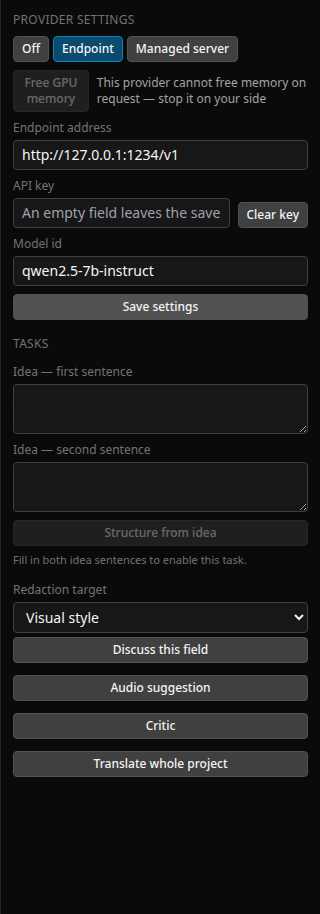
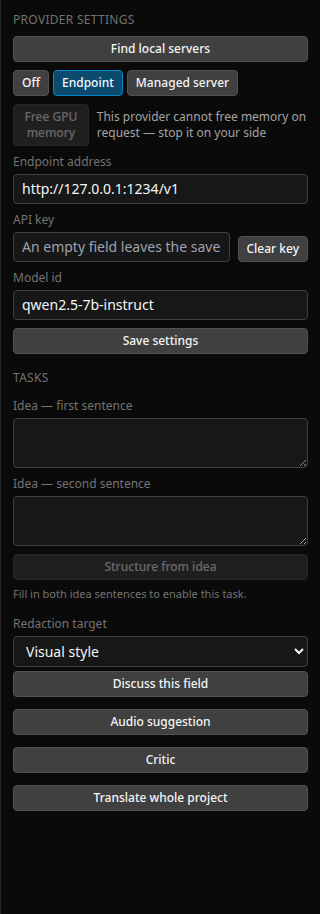
test: przebieg skanowania w przegladarce i dokumentacja trzech funkcji
E2E odslonil realna zaleznosc od KOLEJNOSCI, ktorej zaden test jednostkowy nie
mogl pokazac: ustawienia dostawcy to plik NA MASZYNE (leza poza katalogami
projektow, zeby klucz API nie wedrowal z projektem wyslanym komus innemu), wiec
test wymagajacy stanu 'nieskonfigurowany' przegrywal z testem, ktory dostawce
konfiguruje. Dwa testy padaly razem, kazdy z osobna przechodzil.

Naprawione dwoma ruchami: workers=1 w konfiguracji Playwrighta (z powodem
zapisanym w komentarzu) oraz jawne wyzerowanie ustawien na starcie llm.spec i
generatora zrzutow - zamiast liczenia na kolejnosc plikow.

Zrzut 08-install pokazuje panel kogos, kto nie ma nic: skanowanie serwerow i
trzy modele z prawdziwymi rozmiarami przed klknieciem.

Claude-Session: https://claude.ai/code/session_01L3Y2cCwhtWZk7rhudRN9ki

Changed region(s): [[0.0312, 0.0306, 0.9688, 0.8884], [0.9375, 0.4289, 0.9688, 0.6127]]

diff --git a/web/e2e/discovery.spec.ts b/web/e2e/discovery.spec.ts
@@ -1,0 +1,39 @@
+import { expect, test } from '@playwright/test'
+
+/**
+ * Skan lokalnych serwerów w PRAWDZIWEJ przeglądarce. W środowisku e2e nie stoi
+ * żaden dostawca, więc wynikiem jest „nic nie znaleziono" — i to jest dobry
+ * test, bo dokładnie tę ścieżkę zobaczy użytkownik bez Ollamy, a jest ona
+ * jedyną, w której łatwo zostawić zawieszone „Szukam…" albo pusty ekran.
+ */
+test('skanowanie lokalnych serwerów kończy się czytelnym wynikiem', async ({ page }) => {
+  await page.goto('/')
+  await page.getByRole('button', { name: 'PL', exact: true }).click()
+  await page.getByRole('button', { name: /nowy projekt/i }).click()
+  await page.getByLabel(/nazwa projektu/i).fill(`E2E skan ${Date.now()}`)
+  await page.getByRole('button', { name: /^T2VA/ }).click()
+  await page.getByRole('button', { name: /^utwórz$/i }).click()
+
+  await page.getByRole('button', { name: /szukaj lokalnych serwerów/i }).click()
+
+  // Cokolwiek stoi na maszynie, wynik ma być zdaniem albo listą — nigdy pustym
+  // ekranem ani przyciskiem, który został na „Szukam…".
+  await expect(
+    page.getByText(/nie znaleziono żadnego serwera|ollama|lmstudio|openai/i).first(),
+  ).toBeVisible({ timeout: 20_000 })
+  await expect(page.getByRole('button', { name: /szukaj lokalnych serwerów/i })).toBeVisible()
+})
+
+test('bez skonfigurowanego dostawcy panel proponuje pobranie modelu z rozmiarami', async ({ page }) => {
+  await page.goto('/')
+  await page.getByRole('button', { name: 'PL', exact: true }).click()
+  await page.getByRole('button', { name: /nowy projekt/i }).click()
+  await page.getByLabel(/nazwa projektu/i).fill(`E2E pobranie ${Date.now()}`)
+  await page.getByRole('button', { name: /^T2VA/ }).click()
+  await page.getByRole('button', { name: /^utwórz$/i }).click()
+
+  // Rozmiar musi być widoczny ZANIM cokolwiek ruszy — to on jest podstawą
+  // decyzji o pobraniu kilku gigabajtów.
+  await expect(page.getByText(/8[.,]9 GB|9[.,]0 GB/).first()).toBeVisible({ timeout: 15_000 })
+  await expect(page.getByRole('button', { name: /pobierz i skonfiguruj/i }).first()).toBeVisible()
+})

diff --git a/web/e2e/screenshots.spec.ts b/web/e2e/screenshots.spec.ts
@@ -75,6 +75,18 @@ test('zrzuty panelu LLM', async ({ page }) => {
   await mkdir(SHOTS, { recursive: true })
   await page.setViewportSize({ width: 1680, height: 1180 })
   await page.goto('/')
+  // Czysty stan PRZED wejściem do edytora: ustawienia dostawcy to plik na
+  // maszynę, a zrzuty mają pokazywać panel człowieka, który jeszcze nic nie
+  // skonfigurował. Panel czyta ustawienia przy montowaniu, więc wystarczy
+  // zrobić to zanim projekt się otworzy — przeładowanie strony wyrzuciłoby
+  // z edytora z powrotem na listę projektów.
+  await page.request.put('/api/llm/settings', {
+    data: {
+      mode: 'off',
+      endpoint: { baseUrl: '', apiKey: null, model: '' },
+      managed: { serverBinary: '', modelPath: '', gpuLayers: 0, contextSize: 8192 },
+    },
+  })
   await page.getByRole('button', { name: 'EN', exact: true }).click()
 
   await page.getByRole('button', { name: /new project/i }).click()
@@ -86,6 +98,10 @@ test('zrzuty panelu LLM', async ({ page }) => {
 
   await expect(page.getByText(/model is not configured/i).first()).toBeVisible()
   await panel.screenshot({ path: join(SHOTS, '05-llm-off.png'), animations: 'disabled' })
+
+  // Ekran pobierania — to, co widzi ktoś, kto nie ma jeszcze nic: rozmiary
+  // przed kliknięciem i wykrywanie serwerów, gdyby już coś stało na maszynie.
+  await panel.screenshot({ path: join(SHOTS, '08-install.png'), animations: 'disabled' })
 
   // Ten sam panel po wskazaniu dostawcy: zadania stają się aktywne, a przycisk
   // zwolnienia pamięci karty mówi, co potrafi u TEGO dostawcy.

diff --git a/web/playwright.config.ts b/web/playwright.config.ts
@@ -1,6 +1,17 @@
 import { defineConfig } from '@playwright/test'
 
 export default defineConfig({
+  /*
+    JEDEN worker, świadomie. Ustawienia dostawcy modelu (`llm-settings.json`)
+    są plikiem NA MASZYNĘ, nie na projekt — leżą poza katalogami projektów
+    właśnie po to, żeby klucz API nie wędrował z projektem wysłanym komuś
+    innemu. Skutek uboczny: dwa testy pracujące równolegle na tym samym
+    serwerze walczą o ten sam plik i wywracają się nawzajem. Zmierzone wprost:
+    `discovery.spec.ts` (który wymaga stanu „dostawca nieskonfigurowany") i
+    `llm.spec.ts` (który konfiguruje dostawcę) padały razem, a każdy z osobna
+    przechodził.
+  */
+  workers: 1,
   testDir: './e2e',
   // Generator zrzutów do README nie jest testem — zapisuje pliki i wymaga
   // ręcznego uruchomienia (Error: http://127.0.0.1:8899/api/health is already used, make sure that nothing is running on the port/url or set reuseExistingServer:true in config.webServer.).

diff --git a/web/e2e/llm.spec.ts b/web/e2e/llm.spec.ts
@@ -78,6 +78,18 @@ test('zadanie LLM: od kliknięcia przez strumień HTTP do zmienionego projektu, 
       chunkCount: 10,
     })
 
+    // Ustawienia dostawcy to plik NA MASZYNĘ, nie na projekt — inny test w tym
+    // pakiecie mógł zostawić skonfigurowanego dostawcę, a ten scenariusz
+    // zaczyna się od sprawdzenia stanu „model nie jest skonfigurowany".
+    // Zerujemy je jawnie, zamiast liczyć na kolejność uruchamiania plików.
+    await page.request.put('/api/llm/settings', {
+      data: {
+        mode: 'off',
+        endpoint: { baseUrl: '', apiKey: null, model: '' },
+        managed: { serverBinary: '', modelPath: '', gpuLayers: 0, contextSize: 8192 },
+      },
+    })
+
     const name = await createProject(page, 'T2VA')
 
     const llmPanel = page.getByRole('region', { name: /^model językowy$/i })

diff --git a/README.md b/README.md
@@ -46,7 +46,7 @@ Writing that by hand in a text box means keeping a dozen rules in your head and 
 - **43 validator rules** drawn from the two official prompt-writing guides, each citing its source section.
 - **Five prompt modes** with the format differences handled for you.
 - **Frame-accurate editing** at 24 fps, with cut times snapped to the frame grid.
-- **Local model assistance** — optional, and the app is fully usable without it.
+- **Local model assistance** — optional, and the app is fully usable without it. It finds a running Ollama or LM Studio for you, or downloads an engine and a model if you have neither.
 - **A conversation per field** — ask for a rewrite, then refine it with one word; each field remembers its own thread across restarts.
 - **ComfyUI export** — pick a node and a field once, and the app writes your prompt into a copy of your workflow.
 - **Bilingual interface**, Polish and English — including everything the model writes back to you. The prompt itself is always English.
@@ -148,7 +148,17 @@ Entirely optional. Without a model configured the panel is greyed out with an ex
 
 ![The language-model panel with no provider configured](docs/screenshots/05-llm-off.png)
 
-Two ways to connect one:
+**Find local servers** scans `127.0.0.1` for Ollama, LM Studio and a bare `llama-server`. If one is running, a single click fills in the settings — no address to remember. Only the loopback interface is scanned: probing other machines from the app's server would be a port scanner, not a convenience, and this app is sometimes exposed on `0.0.0.0`.
+
+**Download a model** appears when you have nothing configured. It fetches the llama.cpp engine (~200 MB) and the model you pick, then configures both for you.
+
+![The provider panel with nothing configured: server discovery and the three models offered for download](docs/screenshots/08-install.png)
+
+Three models are offered, with the real download size next to each — 4.7, 9.0 and 19.9 GB. Nothing starts until you click; a few gigabytes should never move without you knowing. If the download is interrupted, the next click resumes from where it stopped rather than starting over. On Windows the engine is the CPU build: the CUDA variants need a second download, and without a Windows machine to test on, promising acceleration nobody verified would be a guess.
+
+If your GPU can be read, the panel shows a line like `NVIDIA RTX PRO 6000 · VRAM 10.4 / 95.6 GB`, refreshed every few seconds — so you can see memory fill when a model loads and drop when you free it. When the reading is unavailable the line is simply absent; a zero pretending to be a measurement is worse than no measurement.
+
+Two ways to connect one manually:
 
 **Endpoint** — point the app at any OpenAI-compatible server. Works with LM Studio (`http://localhost:1234/v1`), Ollama (`http://localhost:11434/v1`), vLLM, or a `llama-server` you started yourself. The API key is optional; local servers do not need one.
 
@@ -249,6 +259,9 @@ Shortcuts never fire while you are typing in a field.
         assets/           images, video and audio you uploaded
         exports/          generated files
     llm-settings.json     provider settings, machine-wide
+~/mmh3-studio/runtime/
+    engine/               llama.cpp release the app downloaded
+    models/               .gguf files the app downloaded
 ```
 
 Projects are plain JSON. You can read them, diff them, and put them in version control. The provider settings sit **outside** any project folder so an API key never travels with a project you send to someone.
